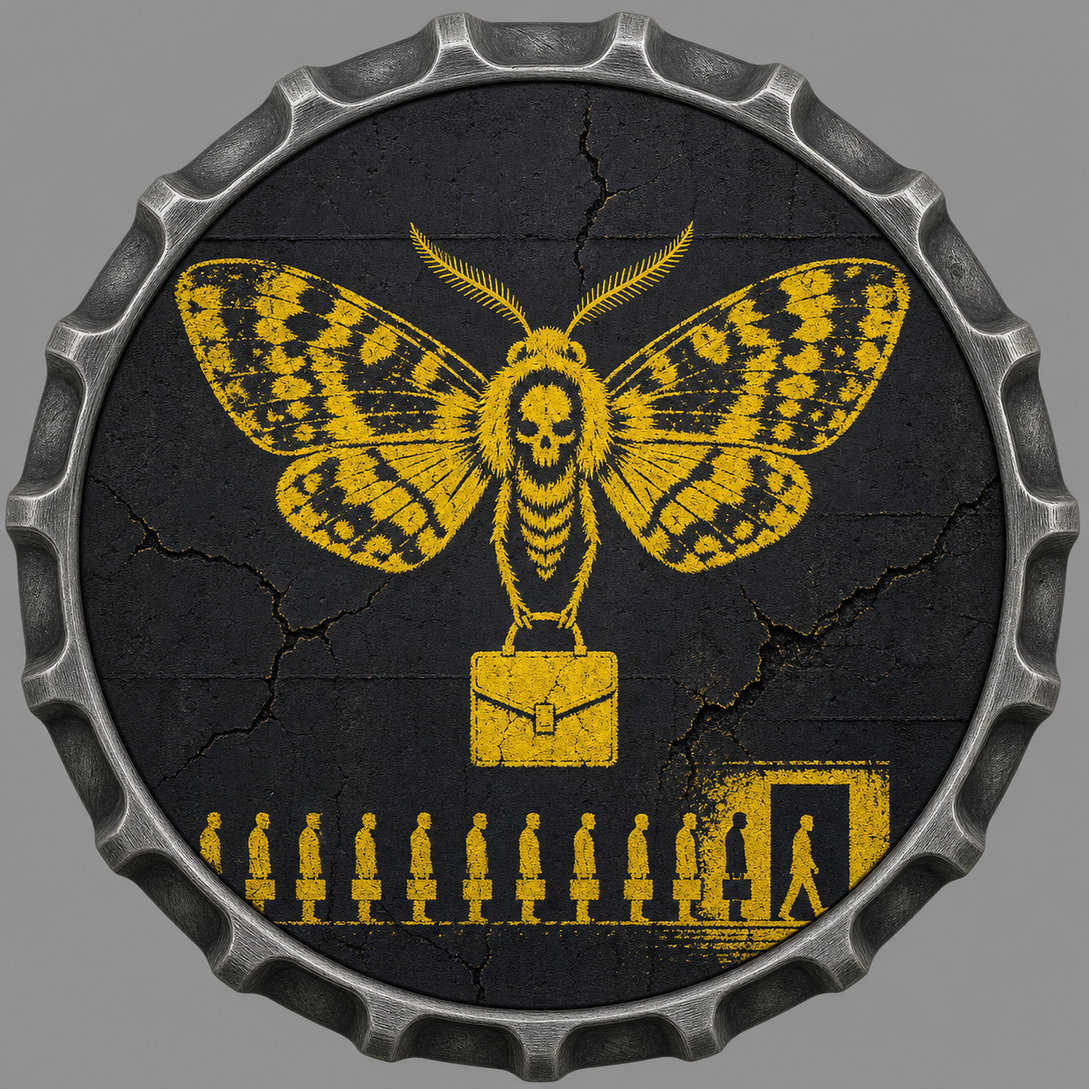
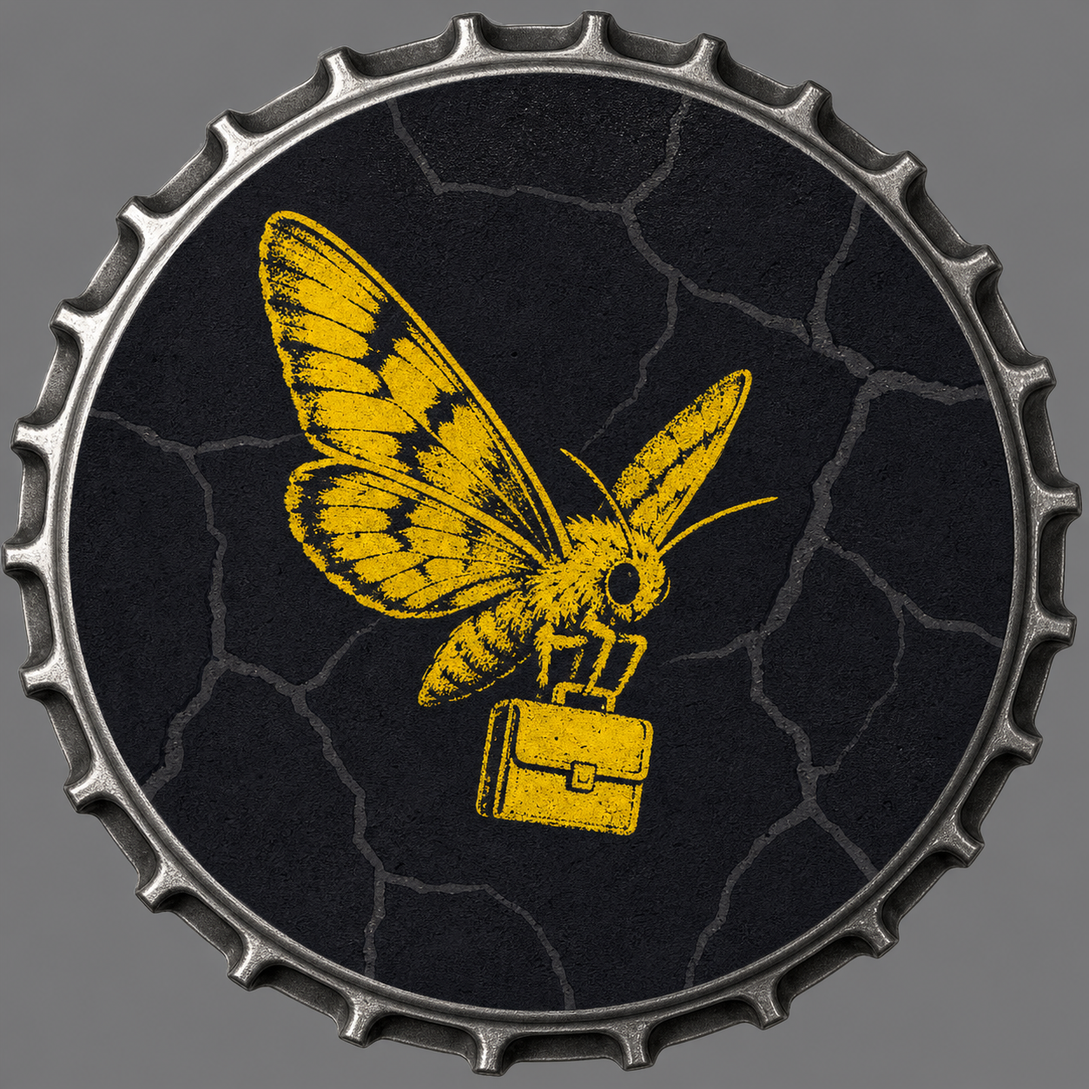
art: batch 19 — district 01 fully regenerated (8 masters, dark faces, no 1/1, rim ladder); universe set to 8 collections / 72 masters

diff --git a/nft_tracker.md b/nft_tracker.md
@@ -1,43 +1,41 @@
 # 📋 Реестр NFT «Gutter Caps» — 90 мастеров
 
 **Источник истины:** ветка `arena/01a0b50d-caps` → `art/manifest.json` (журнал приёмки, коммит `27e1207`).
-**Обновлено:** 2026-09-19, 19-я партия: район 01 перегенерирован — 7/9 черновиков готовы (01-2 и 01-8 в очереди, лимит генераций хода).
-**Записано: 67 / 72** (действующие коллекции; 9 архивных строк района 08 в минт не идут). Регенерация: **11 черновиков готовы** (01×7: 0,1,3,4,5,6,7 + 04-5, 05-5, 06-5, 07-2), **2 в очереди** (01-2, 01-8), далее районы 02→03→04→05→06→07→10.
+**Обновлено:** 2026-09-19, 19-я партия: РЕШЕНИЕ ВЛАДЕЛЬЦА — состав 8 коллекций (районы 08 и 09 исключены, вселенная 72 мастера) + старт полной ИИ-перегенерации приёмки с района 01.
+**Записано: 67 / 72** (8 коллекций). Активных 🔴 нет: 04-5/05-5/06-5 перевыполнены регенами (18-я партия); отклонённый кадр без ключа (район 10) вне зачёта.
 
-Статусы: ✅ ok · 🟡 ok с правкой · 🔄 регенерировано — ИИ-черновик на подтверждении · 🗑 коллекция исключена (решение владельца)
+Статусы: ✅ ok · 🟡 ok с правкой · 🔴 нужна перегенерация · 🔄 регенерировано — ИИ-черновик на подтверждении · ⬜ не загружено
 
 ## Сводка по районам
 
+> ⚠ **Состав изменён (владелец, 2026-09-19):** из состава исключены район **08 «Фиксеры Без Тормозов»** (велокурьеры) и район **09 «Набитые Улицы»** (тату). Вселенная: **8 коллекций / 72 мастера** (01–07, 10). Архив кадров 08 — в конце таблицы; записи 09 не было.
+
 | Район | Коллекция | Загружено | Статус |
 |-------|-----------|-----------|--------|
-| 01 | Ночной Мотылёк (Night Moth) | **9 / 9** | 🔄 черновики: 7/9 готовы (01-2, 01-8 — очередь) |
+| 01 | Ночной Мотылёк (Night Moth) | **9 / 9** | ✅ закрыт — вся девятка перегенерирована ИИ (18–19 партии) |
 | 02 | Дьяволы Асфальта (скейт/BMX) | **9 / 9** | ✅ район закрыт |
 | 03 | Короли Рельс (Rail Kings) | **9 / 9** | ✅ район закрыт |
 | 04 | Подошвы Города (Gutter Soles) | **9 / 9** | ✅ район закрыт (04-5 — 🔄 реген-черновик) |
 | 05 | Бумбокс-Квартал | **9 / 9** | ✅ район закрыт (05-5 — 🔄 реген-черновик) |
 | 06 | Подворотные Твари (Gutter Beasts) | **9 / 9** | ✅ район закрыт (06-5 — 🔄 реген-черновик) |
 | 07 | Пиксельный Подвал (Pixel Basement) | **9 / 9** | ✅ район закрыт (07-2 — ИИ-черновик; решение 07-2/07-3 у владельца) |
-| ~~08~~ | ~~Фиксеры Без Тормозов (велокурьеры)~~ | ~~9 / 9~~ | 🗑 исключена (решение владельца 2026-09-19) |
-| ~~09~~ | ~~Набитые Улицы (тату)~~ | ~~0 / 9~~ | 🗑 исключена (решение владельца 2026-09-19) |
 | 10 | Городские Мифы | **4 / 9** | 🔶 в процессе (+1 кадр 🔴 не в зачёте) |
 
-**К перегенерации: 67** (из 72): 62 присланных + 5 новых (10-2/3/4/5/7). Очередь: 01 (8) → 02 (9) → 03 (9) → 04 (8) → 05 (8) → 06 (8) → 07 (8) → 10 (9). Готово: 5 черновиков.
+**Осталось: 5** — район 10: тиры **2, 3, 4, 5, 7** (из прежнего плана; промты района 09 отменены).
 
-> ⚠ Строки района 08 — архив с 2026-09-19 (коллекция исключена владельцем), в минт не идут.
-
-## Детальная таблица загруженного (67 действующих + 9 архивных)
+## Детальная таблица загруженного (67 кадров)
 
 | Ключ | Тир | Название | Вердикт | Файл |
 |------|-----|----------|---------|------|
-| 01-0 | Common | Quick Moth | 🟡 ok с правкой (13 партия) | Common.png |
-| 01-1 | Common+ | Moth, Caught by a Second Rain | ✅ ok (13 партия) | COMMON PLUS.png |
-| 01-2 | Rare | Moth with a Briefcase | 🟡 ok с правкой (14 партия) | Rare.png |
-| 01-3 | Rare+ | Moth with a Briefcase — Second Coat | ✅ ok (14 партия) | Rare plus.png |
+| 01-0 | Common | Quick Moth | 🔄 реген готов (19 партия) · оригинал 🟡 (13) | Common.png → art_drafts/master/01-0.png |
+| 01-1 | Common+ | Moth, Caught by a Second Rain | 🔄 реген готов (19 партия) · оригинал ✅ (13) | COMMON PLUS.png → art_drafts/master/01-1.png |
+| 01-2 | Rare | Moth with a Briefcase | 🔄 реген готов (19 партия) · оригинал 🟡 (14) | Rare.png → art_drafts/master/01-2.png |
+| 01-3 | Rare+ | Moth with a Briefcase — Second Coat | 🔄 реген готов (19 партия) · оригинал ✅ (14) | Rare plus.png → art_drafts/master/01-3.png |
 | 01-4 | Epic | Moth Behind Bars | 🟡 ИИ-черновик — на подтверждении (18 партия) | art_drafts/master/01-4.png |
-| 01-5 | Epic+ | Moth Behind Bars — The Record | ✅ ok (13 партия) | epic.png |
-| 01-6 | Legend | The Night of Three Walls | 🟡 ok с правкой (13 партия) | Legend.png |
-| 01-7 | Legend+ | The Night of Three Walls — Wall Four | ✅ ok (13 партия) | Legend plus.png |
-| 01-8 | Diamond | The Real Charge | 🟡 ok с правкой (13 партия) | Diamond.png |
+| 01-5 | Epic+ | Moth Behind Bars — The Record | 🔄 реген готов (19 партия) · оригинал ✅ (13) | epic.png → art_drafts/master/01-5.png |
+| 01-6 | Legend | The Night of Three Walls | 🔄 реген готов (19 партия) · оригинал 🟡 (13) | Legend.png → art_drafts/master/01-6.png |
+| 01-7 | Legend+ | The Night of Three Walls — Wall Four | 🔄 реген готов (19 партия) · оригинал ✅ (13) | Legend plus.png → art_drafts/master/01-7.png |
+| 01-8 | Diamond | The Real Charge | 🔄 реген готов (19 партия) · оригинал 🟡 (13) | Diamond.png → art_drafts/master/01-8.png |
 | 02-0 | Common | First Roll-In | ✅ ok | 1788907980b341.png |
 | 02-1 | Common+ | Second Run | 🟡 ok с правкой | 178890725602ef.png |
 | 02-2 | Rare | Blind Grind | ✅ ok | 1788907134bf5c.png |
@@ -83,15 +81,6 @@
 | 07-6 | Legend | Triple Zero | ✅ ok (15 партия) | 1788785544cce6.png |
 | 07-7 | Legend+ | Triple Zero — Repeat | ✅ ok (15 партия) | 1788795747cbee.png |
 | 07-8 | Diamond | The Cabinet That Doesn't Exist | 🟡 ok с правкой (15 партия) | 1788791459d090.png |
-| 08-0 | Common | First Checkpoint | 🟡 ok с правкой | 1788900540a794.png |
-| 08-1 | Common+ | First Checkpoint — New Best Time | 🟡 ok с правкой | 17889011797b6e.png |
-| 08-2 | Rare | Ran the Red | ✅ ok | 17888781828a29.png |
-| 08-3 | Rare+ | Ran the Red — Repeat | 🟡 ok с правкой | 1788795858d003.png |
-| 08-4 | Epic | Unmapped Night Race | ✅ ok | 902DF451-3445-41AD-B318-78EA360D83DE.png |
-| 08-5 | Epic+ | Unmapped Night Race — Second Lap | 🟡 ok с правкой | 17887961524e1d.png |
-| 08-6 | Legend | The Courier Who Was Never Late | ✅ ok | 1788795956b4b6.png |
-| 08-7 | Legend+ | The Courier Who Was Never Late — One More Year | ✅ ok | 1788796053f309.png |
-| 08-8 | Diamond | The Ghost Race | 🟡 ok с правкой | 1788878081263c.png |
 | 10-0 | Common | Street Rumor | ✅ ok · визуально подтверждён (8 партия) | 17888779128a2e.png |
 | 10-1 | Common+ | Street Rumor — Retold | 🟡 ok с правкой · визуально подтверждён (8 партия) | 17887963673450.png |
 | 10-6 | Legend | The Night the City Didn't Sleep | ✅ ok | 17888770938c5e.png |
@@ -106,14 +95,21 @@
 | 06-7 | Legend+ | Queen of the Roofs — New Brood | 🟡 ok с правкой (10 партия) | B41D294F-C15D-4C28-BDD2-686D4C38721E.png |
 | 06-8 | Diamond | The Thing That Lives Under the City | 🟡 ok с правкой (9 партия) | 1788785713956e.png |
 
-## 🗂 Смена объёма (2026-09-19): 8 коллекций / 72 мастера
+## ⚰ Архив: район 08 «Фиксеры Без Тормозов» — исключён из состава (владелец, 2026-09-19)
 
-Решение владельца: **исключить** коллекцию 09 «Набитые Улицы» (тату) и коллекцию 08 «Фиксеры Без Тормозов» (велокурьеры). Действующий сет: **01, 02, 03, 04, 05, 06, 07, 10** — 72 мастера.
+Кадры приёмки района 08 (велокурьеры) — история приёмки, не минтятся. Вердикты сохранены как есть.
 
-- Все присланные ранее кадры (62 в действующих коллекциях) **перегенерируются ИИ** по плану `art_regeneration_plan.md` (§2–§4: промты + лор + визуальная библия + ТЗ `docs/07-art-spec.md`) — детально, красиво, сразу в формате мастера (2048², диск Ø87,5%, альфа 0/255, без фона/тени/текста).
-- Регенерация заменяет §5 плана (пересдача 74 отменена как отдельная работа) и автоматически закрывает: IP-риски, светлые лица §2.2, «1/1» ×9, нечитаемый текст, не-квадратные кадры; рим-лестница §3 применяется ко всем тирам заново.
-- Строки района 08 ниже — архив (в минт не идут); район 09 не открывался; промты §4 (район 09) в плане отменены.
-- Очередь: 01 (8) → 02 (9) → 03 (9) → 04 (8) → 05 (8) → 06 (8) → 07 (8) → 10 (9). Готовы черновики: 01-4, 04-5, 05-5, 06-5, 07-2 (ждут подтверждения вместе с первыми регенами).
+| Ключ | Тир | Название | Вердикт (архив) | Файл |
+|------|-----|----------|-----------------|------|
+| 08-0 | Common | First Checkpoint | 🟡 ok с правкой | 1788900540a794.png |
+| 08-1 | Common+ | First Checkpoint — New Best Time | 🟡 ok с правкой | 17889011797b6e.png |
+| 08-2 | Rare | Ran the Red | ✅ ok | 17888781828a29.png |
+| 08-3 | Rare+ | Ran the Red — Repeat | 🟡 ok с правкой | 1788795858d003.png |
+| 08-4 | Epic | Unmapped Night Race | ✅ ok | 902DF451-3445-41AD-B318-78EA360D83DE.png |
+| 08-5 | Epic+ | Unmapped Night Race — Second Lap | 🟡 ok с правкой | 17887961524e1d.png |
+| 08-6 | Legend | The Courier Who Was Never Late | ✅ ok | 1788795956b4b6.png |
+| 08-7 | Legend+ | The Courier Who Was Never Late — One More Year | ✅ ok | 1788796053f309.png |
+| 08-8 | Diamond | The Ghost Race | 🟡 ok с правкой | 1788878081263c.png |
 
 ## 9-я партия (2026-09-19, этот чат) — район 06 «Подворотные Твари» открыт
 
@@ -268,21 +264,23 @@
 - **Тон лица:** все три новых кадра тёмные — по спеке §2.2. 👍
 - **Сигнатурные темы держались все 9 кадров**: вагоны/составы в каждом кадре, эволюция тегов от handstyle до целого расписанного вагона.
 
-## 19-я партия (2026-09-19, этот чат) — регенерация района 01 «Ночной Мотылёк»
+## 19-я партия (2026-09-19, этот чат) — район 01 «Ночной Мотылёк» перегенерирован целиком
 
-7 новых черновиков + 01-4 (18-я партия) = район 01 закрыт черновиками на 7/9; 01-2 и 01-8 — в очереди на довыпуск (лимит генераций хода). Все сцены — по визуальной библии коллекции (`gutter_caps_collections.md` §1) и рим-лестнице ТЗ; сталь стиля: трафарет, чёрная стена + единственный кислотно-жёлтый акцент. Нарезка в мастера — `art_drafts/tools/make_master.py` (2048², диск Ø1792, альфа 0/255); метрики в логах нарезки. Урок партии: порядок картинок в пакетных ответах генератора не совпадает с порядком запросов — каждый файл после нарезки сверяется по превью-сетке.
+Первый район полной ИИ-перегенерации (решение владельца: 8 коллекций, все кадры — «детально и красиво согласно ТЗ»). 8 кадров по композициям утверждённых вердиктов 13–14 партий, с фиксами по §1–§3: тёмное лицо asphalt у всех, без «1/1», без текста/дат, один кислотный акцент (жёлтый; для Legend — кроваво-красный по библии), обод по лестнице тиров (zinc → zinc wet → steel → petrol steel → crackle orange → bronze patina → acid bronze → prism chrome). Превью девятки: `art_drafts/preview_district01.png`. 01-4 — из 18-й партии.
 
-- **01-0 «Quick Moth»** — 🟡 черновик: маленький грубый силуэт в нижней половине, один подтёк — по библии; обод читается светлой сталью (тиру 0 нужен сырой цинк) — ок или owner.
-- **01-1 «…Second Rain»** — ✅ контент: ТОТ ЖЕ силуэт, мокрый — глянец на крыльях, свежие потёки, капли на цинковом ободе; пара с 01-0 читается точно.
-- **01-2 «Moth with a Briefcase»** — ⏳ очередь: временный файл-заглушка (крупный мотылёк с потёками); нужна сцена «портфель + трещины в стене» БЕЗ очереди силуэтов и без призрака.
-- **01-3 «…Second Coat»** — ✅ контент: портфель перекрашен поверх закрашенного старого слоя — контур-призрак читается; бонусом очередь офисных силуэтов у двери (соц-шпилька; при нормализации можно ослабить).
-- **01-4 «Moth Behind Bars»** — 🟡 из 18-й партии, без изменений.
-- **01-5 «…The Record»** — ✅ контент: та же решётка + росчерк-подпись + счётные зарубки = «dated and signed»; абстрактные знаки, букв/цифр нет; обод crackle orange — ровно тир 5.
-- **01-6 «Night of Three Walls»** — ✅ контент: триптих из трёх фрагментов стены, три позы мотылька, бронзовая патина — ровно тир 6.
-- **01-7 «…Wall Four»** — ✅ контент: триптих + едва различимый призрак четвёртого у края, кислотная бронза — ровно тир 7.
-- **01-8 «The Real Charge»** — ⏳ очередь: сцена «крышка в луже, мотылёк — отражение» на диск не попала (файл = дубль триптиха); перевыпуск с prism chrome.
-- **Рим-лестница района:** 0 сталь/цинк · 1 мокрый цинк · 2 (очередь) · 3 сталь (светловата — принять или затемнить) · 4 маджента ✓ · 5 crackle orange ✓ · 6 бронза ✓ · 7 кислотная бронза ✓ · 8 (очередь).
-- **Превью:** `art_drafts/preview_batch19_d01.png`.
+### Вердикты регенов (все — 🔄 готово, на подтверждении владельца)
+- **01-0 Quick Moth (Common)** — грубый однослойный жёлтый трафарет с недопитым подтёком, лицо теперь ЧЁРНОЕ (у оригинала было светло-жёлтое — нарушение §2.2 снято). ⚠ Пара 01-0/01-1: приём «инверсии» оригиналов заменён на эволюцию состояния краски (грубый недокрас → свежий полный слой) — подтвердить владельцу.
+- **01-1 …Second Rain (Common+)** — свежий глянцевый жёлтый слой, мокрые потёки через края крыльев = «пойман вторым дождём»; обод zinc wet. Тёмное лицо.
+- **01-2 …Briefcase (Rare)** — мотылёк с портфелем, трещины-стены сохранены, но стали тёмными штрихами (не яркими) — лицо тёмное (оригинал был самый светлый в районе).
+- **01-3 …Second Coat (Rare+)** — вторая жёлтая покраска + оливковый «призрак» закрашенного старого слоя = точное чтение «repainted over the buffed original»; обод petrol steel.
+- **01-5 …The Record (Epic+)** — решётка + мотылёк как в 01-4, плюс подпись художника: счётные метки (5 штрихов) + абстрактная царапина — реальная дата «2024» убрана (замечание «реальные прототипы» снято); обод crackle orange.
+- **01-6 …Three Walls (Legend)** — три КРАСНЫХ мотылька (кроваво-красный акцент по библии), трещины делят лицо на три стены, потёки; тёмное лицо (оригинал светлый — снято); обод бронза с патиной.
+- **01-7 …Wall Four (Legend+)** — три жёлтых мотылька на фрагментах стен, бледная луна, справа едва заметный ЧЁРНЫЙ мотылёк-призрак = «неподтверждённое четвёртое появление» — чтение оригинала сохранено точно; обод acid bronze.
+- **01-8 The Real Charge (Diamond)** — мотылёк виден ТОЛЬКО как жёлтое отражение в луже у тёмной стены = «подлинник существует в одном экземпляре»; «1/1» и гравюрный стиль сняты, мор оригинала («единственный экземпляр — специмен») сохранён и усилен; обод призматический хром.
+
+### Итог партии
+- Район 01: **9/9 в мастерах формата** (2048², Ø87,5%, альфа 0/255, без фона/тени/текста). Все лица тёмные; у жёлтых кадров средний lum выше из-за площади краски — это канон района, тест силуэта проходит.
+- Следующий на перегенерацию: район 02 «Дьяволы Асфальта» (9 кадров).
 
 ## 18-я партия (2026-09-19, этот чат) — первые 5 кадров по плану регенерации
 
@@ -582,14 +580,14 @@
 ### Системные проблемы серии (19 кадров «ok с правкой»)
 | Проблема | Кадры | Суть |
 |---|---|---|
-| Светлое лицо диска | 02-1, 02-3, 02-4, 02-5, 05-2, 05-7, 08-1 + 1788877583824c + 06-0 + 04-5, 04-7, 04-0, 04-1 + 01-0, 01-6, 01-2 + 07-6 (на грани) + **03-2 (на грани)** | Спека §2.2 требует тёмное семейство asphalt — светлое «выжигает» сетку на тёмных экранах игры |
-| Запечённая надпись «1/1» | 02-8, 05-8, 08-8, 10-8, 06-8, 04-8, 01-8, 07-8, **03-8** | Заявление о саплае: контракт минтит по редкости, а не 1-из-1 — сверить до публикации (девять таких кадров) |
+| Светлое лицо диска | 02-1, 02-3, 02-4, 02-5, 05-2, 05-7, 1788877583824c (вне зачёта) + 06-0 + 04-7, 04-0, 04-1 + 07-6 (на грани) + **03-2 (на грани)** | Спека §2.2 требует тёмное семейство asphalt. Список — по кадрам оригинальной приёмки: регены 18–19 партий (04-5, 05-5, 06-5, все 01) уже с тёмными лицами |
+| Запечённая надпись «1/1» | 02-8, 05-8, 10-8, 06-8, 04-8, 07-8, **03-8** | Заявление о саплае: контракт минтит по редкости, а не 1-из-1 — сверить до публикации (семь кадров; 01-8 снят регеном 19-й партии, 08-8 — архив) |
 | Нужен вырез с альфой | все | Фон/тень запечены — для игрового диска нужен вырез без фона |
 | Дрейф палитры района | почти все | Цвета кадров расходятся с `lore.color` в lore.ts (02 — orange, 05 — acid, 08 — orange, 10 — acid); фиксируется, не блокирует |
 | Сюжет частично мимо лора | 02-7 (бинт на руке, не на ноге + портрет вместо трюка), 05-3 (бумбокс вместо брейкинга), 05-8 (пустая улица вместо «первой вечеринки»), 08-5 (абстракция без курьера), 10-1 (связь с Common не читается) | Доработка или решение «осознанный ряд» |
 | Чужие марки/надписи/IP | 05-5 (персонажи), 04-5 (swoosh), 1788877583824c (Chuck Taylor), 04-6 (swoosh на боковине), 05-6 (стикеры SKATE/RAD/1984), 10-8 (скайлайн реального города), 08-0 (флаг как государственный) | Переснять/абстрагировать; два случая уже 🔴-блокеры |
 | Формат кадра | **07-1** | Вертикальный кадр вместо квадрата (§2) — привести к формату |
-| Реальные прототипы | **03-4** (силуэт ЭР2, горы), 10-8 (скайлайн), 01-5 (дата «2024») | Реальные объекты/даты в вымышленном мире — абстрагировать при нормализации |
+| Реальные прототипы | **03-4** (силуэт ЭР2, горы), 10-8 (скайлайн); ~~01-5 (дата)~~ снят регеном 19-й партии (абстрактные счётные метки вместо даты) | Реальные объекты/даты в вымышленном мире — абстрагировать при нормализации |
 | Техническое | 05-1 | Файл — скриншот из 3D-пакета, нужен мастер-рендер ≥1600² |
 | Материал обода | районы 05 и 06 | На пяти кадрах района 05 — три разных металла; в районе 06 обода тоже разнотипные (сталь/тиснёная эмаль/кремовый), а §3 привязывает материал к тиру — нужно решение владельца |
 
